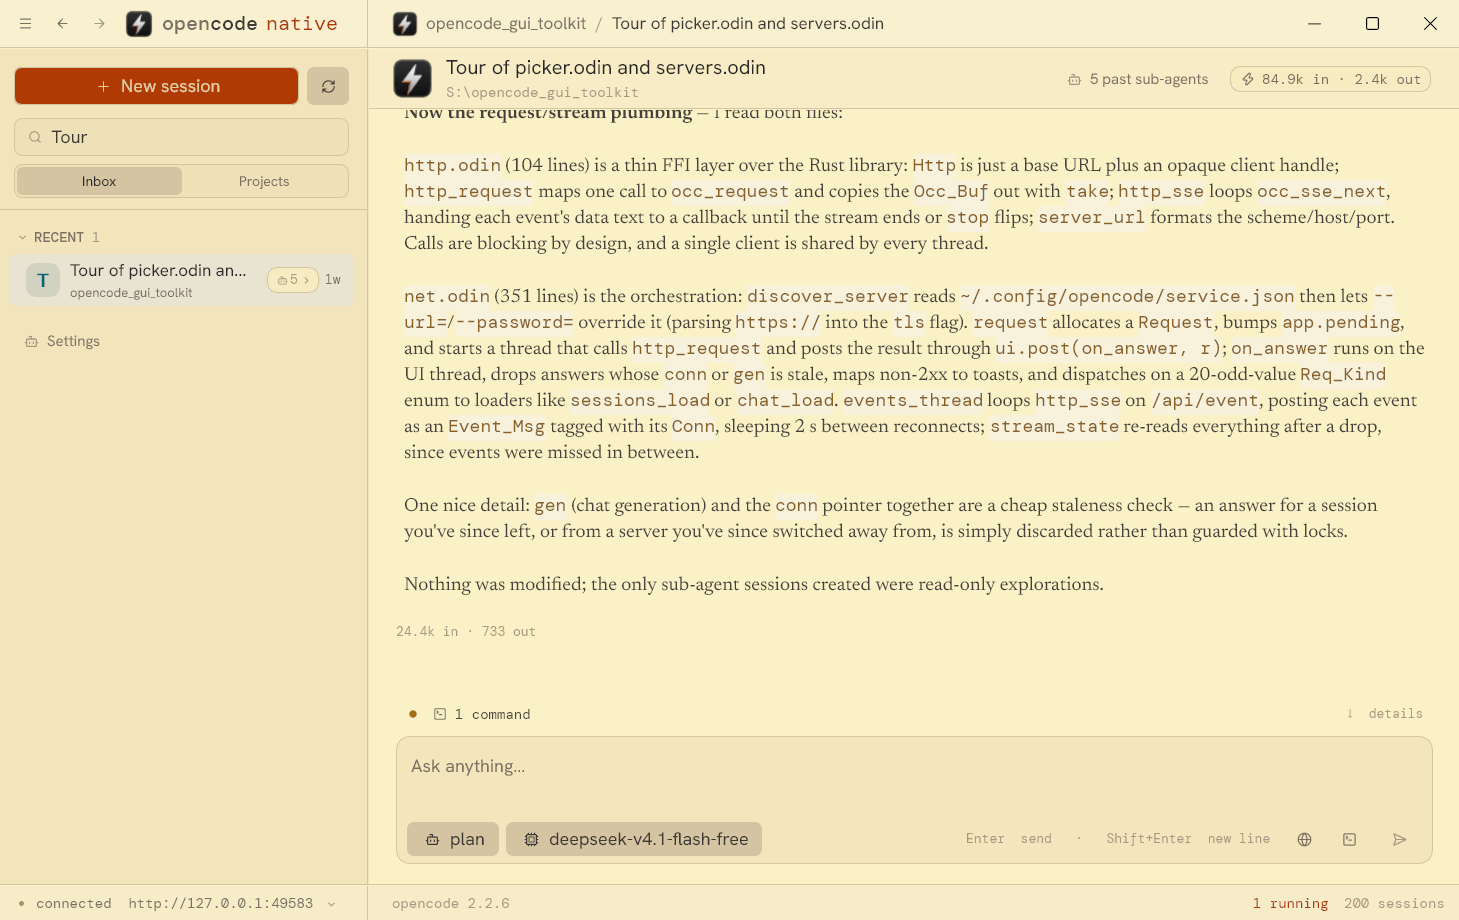
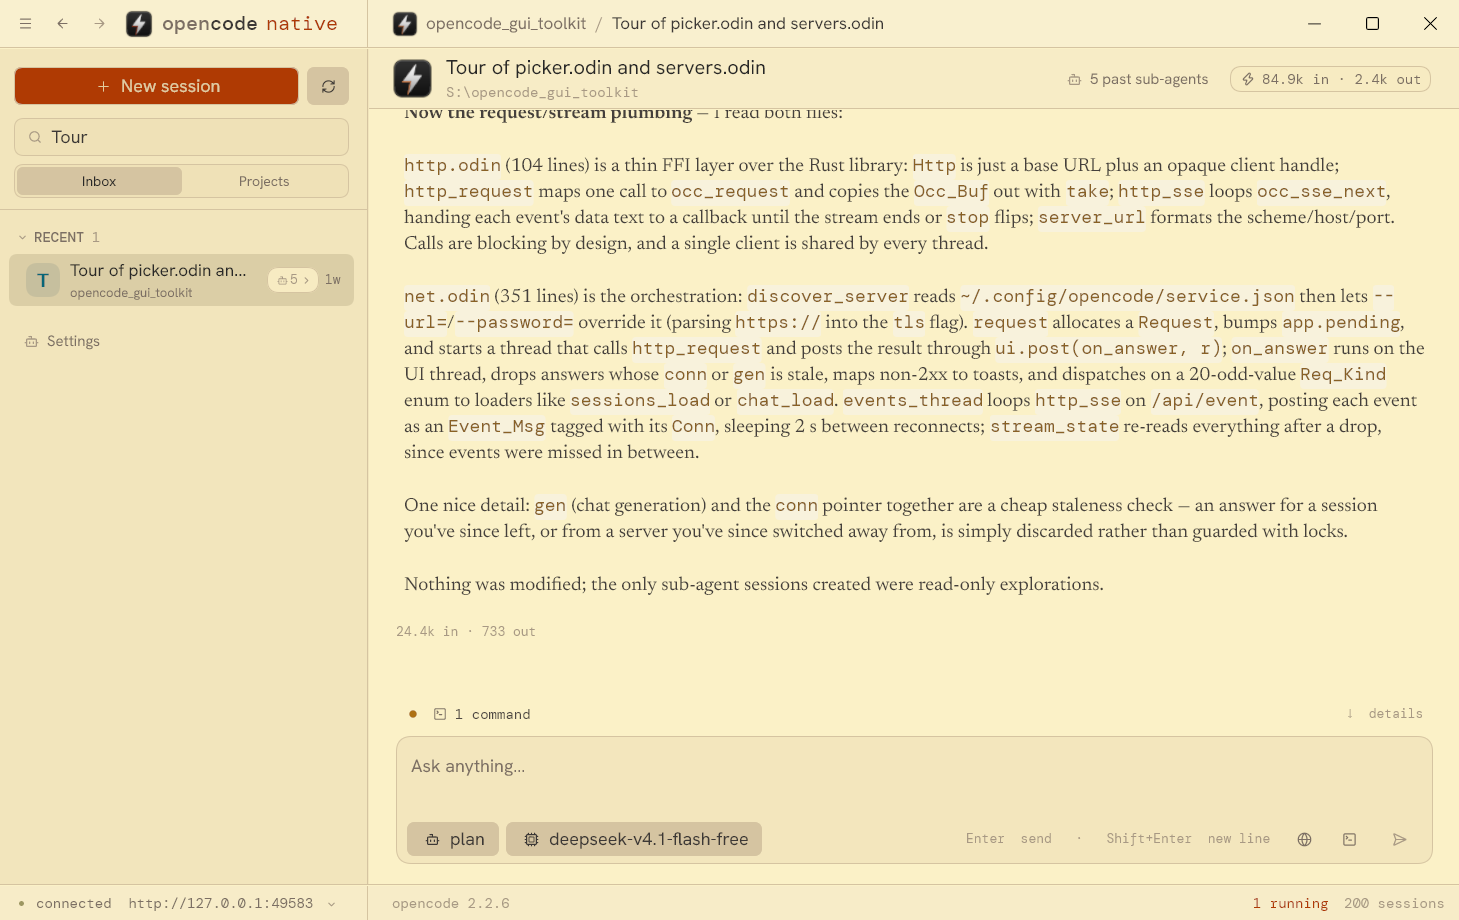
0.18.1: a light theme's chosen session on the sidebar's own ground

Changed region(s): [[0.0, 0.2739, 0.2467, 0.3348]]

diff --git a/CHANGELOG.md b/CHANGELOG.md
@@ -5,9 +5,11 @@ project follows [semantic versioning](https://semver.org).
 
 ## [Unreleased]
 
+## [0.18.1] - 2026-11-07
+
 ### Fixed
 
-- **The session shown, in a light theme,** is on the theme's own neutral a step darker, not on a pale accent: an orange that pale read as pink (Gruvbox).
+- **The session shown, in a light theme,** is on the sidebar's own ground a step darker, its hue and chroma kept: a pale accent read as another colour (Gruvbox's orange as pink), and a neutral of less colour than the sidebar's yellow as blue.
 
 ## [0.18.0] - 2026-11-07
 
@@ -787,7 +789,8 @@ Schedules and artifacts are experimental on the server: where its configuration 
 - First version: sessions grouped by folder, the conversation streamed from the event stream with Markdown, reasoning and
   tool cards, the composer with the agent and the model, permission requests, the integrated title bar.
 
-[Unreleased]: https://github.com/sachahjkl/opencode_native/compare/v0.18.0...HEAD
+[Unreleased]: https://github.com/sachahjkl/opencode_native/compare/v0.18.1...HEAD
+[0.18.1]: https://github.com/sachahjkl/opencode_native/releases/tag/v0.18.1
 [0.18.0]: https://github.com/sachahjkl/opencode_native/releases/tag/v0.18.0
 [0.17.8]: https://github.com/sachahjkl/opencode_native/releases/tag/v0.17.8
 [0.17.7]: https://github.com/sachahjkl/opencode_native/releases/tag/v0.17.7

diff --git a/README.md b/README.md
@@ -7,7 +7,7 @@
 <p align="center"><i>An independent project: it is not built by the OpenCode team, and it is not affiliated with them in any way.</i></p>
 
 <p align="center">
-<a href="CHANGELOG.md"><img src="https://img.shields.io/badge/version-0.18.0-fab283" alt="version 0.18.0"></a>
+<a href="CHANGELOG.md"><img src="https://img.shields.io/badge/version-0.18.1-fab283" alt="version 0.18.1"></a>
 <a href="https://ocn.froment.software/"><img src="https://img.shields.io/badge/site-ocn.froment.software-56b6c2" alt="site"></a>
 </p>
 
